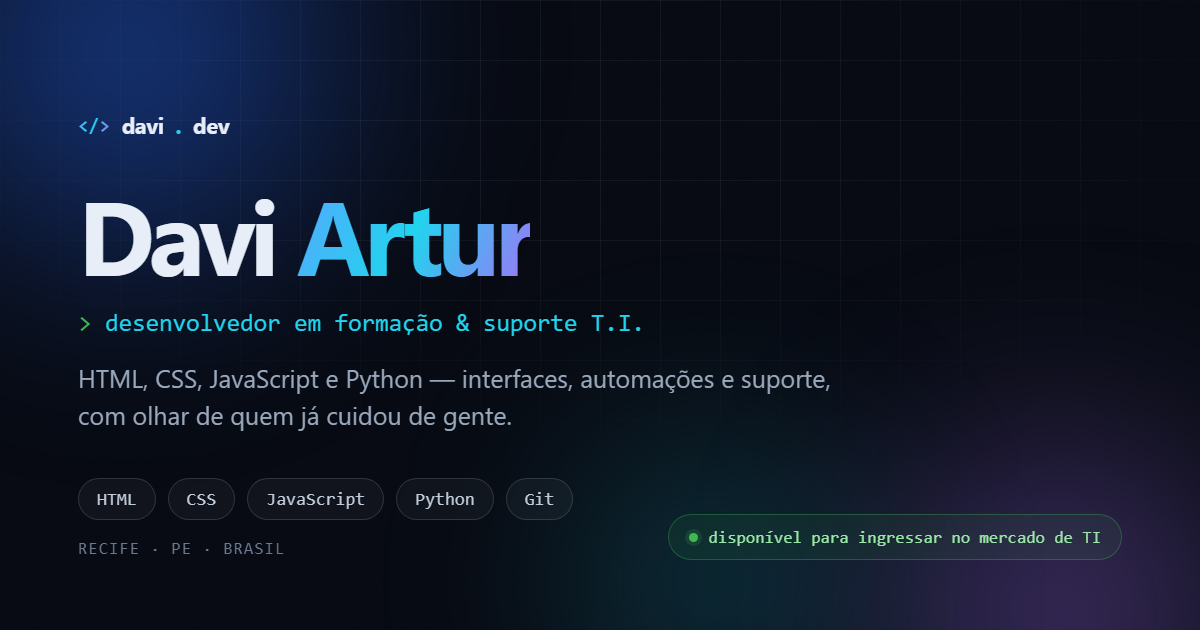
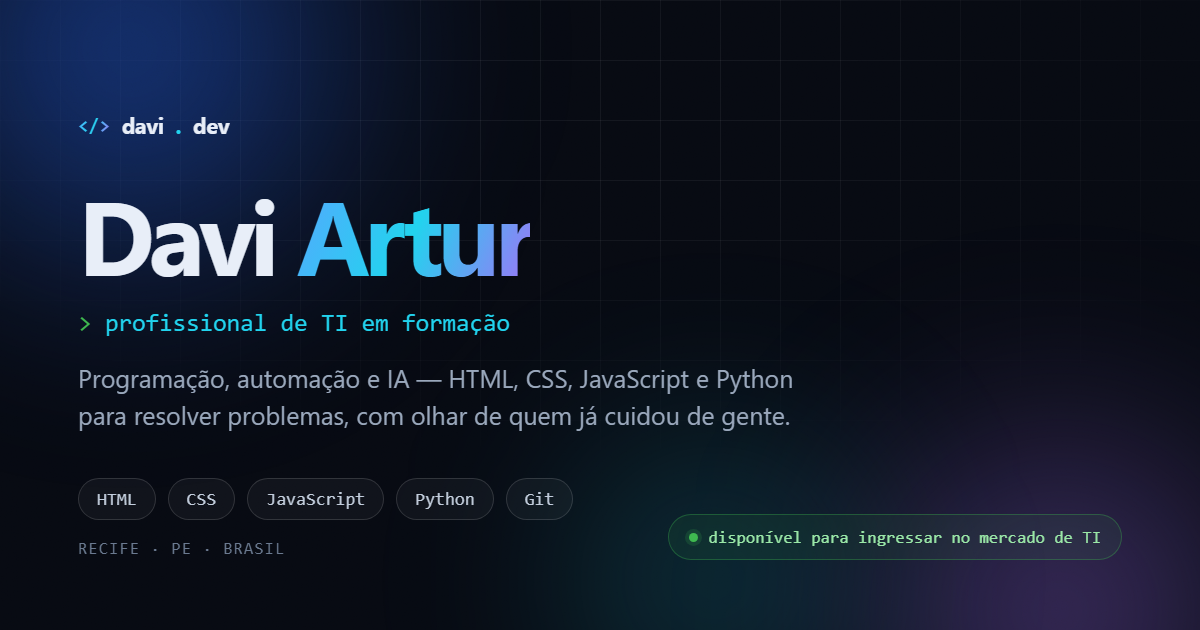
attt

Changed region(s): [[0.0617, 0.573, 0.6783, 0.6937], [0.0925, 0.4825, 0.5242, 0.5429]]

diff --git a/js/data.js b/js/data.js
@@ -14,8 +14,8 @@ window.PORTFOLIO = (function () {
     name: "Davi Artur Silva Sousa",
     shortName: "Davi Artur",
     initials: "DA",
-    role: "Desenvolvedor em formação & Suporte T.I.",
-    tagline: "Transformo curiosidade em código — do front-end ao suporte.",
+    role: "Profissional de TI em formação",
+    tagline: "Transformo curiosidade em soluções — da programação ao atendimento.",
     location: "Torre, Recife — PE",
     locationShort: "Recife · PE",
     email: "Daviarturss27@gmail.com",
@@ -31,7 +31,7 @@ window.PORTFOLIO = (function () {
         label: "Currículo — Suporte T.I.",
         short: "Suporte T.I.",
         file: "assets/cv/Curriculo_Davi_Suporte_TI.pdf",
-        desc: "Foco em suporte técnico, help desk e rotinas de TI."
+        desc: "Foco em suporte técnico e rotinas de TI."
       },
       {
         label: "Currículo — Administrativo",
@@ -45,9 +45,9 @@ window.PORTFOLIO = (function () {
       { id: "linkedin", label: "LinkedIn", url: "https://www.linkedin.com/in/daviartur/", handle: "in/daviartur" }
     ],
     bio: [
-      "Sou Davi Artur, estudante de Análise e Desenvolvimento de Sistemas no Recife e apaixonado por tecnologia. Venho construindo minha base em desenvolvimento web — HTML, CSS e JavaScript — além de Python, Git e ferramentas de inteligência artificial.",
+      "Sou Davi Artur, estudante de Análise e Desenvolvimento de Sistemas no Recife e apaixonado por tecnologia. Venho construindo minha base em programação — HTML, CSS, JavaScript e Python — além de Git, banco de dados e ferramentas de inteligência artificial.",
       "Minha trajetória passa pela área administrativa, onde aprendi a lidar com pessoas, sistemas, prazos e detalhes. Levo essas habilidades para o código: organização, comunicação clara e vontade de resolver o problema de verdade.",
-      "Hoje busco minha primeira oportunidade em TI, no desenvolvimento ou no suporte, para aprender em contexto real e entregar valor desde o primeiro dia."
+      "Hoje busco minha primeira oportunidade em TI para aprender em contexto real e entregar valor desde o primeiro dia, aberto a diferentes frentes da área."
     ],
     pitch:
       "Aprendo rápido, organizo bem e gosto de gente. Se você precisa de alguém que una base técnica, atendimento e vontade de crescer, é comigo."
@@ -66,8 +66,8 @@ window.PORTFOLIO = (function () {
   const highlights = [
     {
       icon: "</>",
-      title: "Front-end em evolução",
-      text: "Interfaces com HTML semântico, CSS moderno, animações e JavaScript puro — sem depender de framework."
+      title: "Programação em evolução",
+      text: "Soluções com HTML semântico, CSS moderno, JavaScript e Python — da interface à automação, sem depender de framework."
     },
     {
       icon: "✦",
@@ -76,7 +76,7 @@ window.PORTFOLIO = (function () {
     },
     {
       icon: "⌘",
-      title: "Suporte e organização",
+      title: "Rotina e organização",
       text: "Vivência com sistemas internos, planilhas, documentação e atendimento ao público."
     },
     {
@@ -309,12 +309,12 @@ window.PORTFOLIO = (function () {
       patterns: [/experiencia|ja trabalhou|trabalho|emprego|curriculo profissional|atuou/i],
       keywords: ["experiencia", "trabalhou", "trabalho", "emprego", "atuou", "consultor", "vendas"],
       reply:
-        "A experiência profissional dele é como **Consultor de Vendas · Administrativo**, entre **out/2025 e mai/2026**. No dia a dia: organização de documentos físicos e digitais, atualização de registros em sistemas e planilhas, suporte à comunicação interna e atendimento ao público.\n\nÉ uma experiência que rendeu **organização, comunicação e familiaridade com sistemas** — coisas que contam muito em suporte T.I.",
+        "A experiência profissional dele é como **Consultor de Vendas · Administrativo**, entre **out/2025 e mai/2026**. No dia a dia: organização de documentos físicos e digitais, atualização de registros em sistemas e planilhas, suporte à comunicação interna e atendimento ao público.\n\nÉ uma experiência que rendeu **organização, comunicação e familiaridade com sistemas** — coisas que contam em qualquer vaga de TI.",
       suggestions: ["Ele já mexeu com suporte?", "Quais são as soft skills?", "Ele está disponível?"]
     },
     {
       id: "skills",
-      patterns: [/o que (ele )?sabe|habilidades|stack|tecnologias|conhecimentos|linguagens|ferramentas/i],
+      patterns: [/o que (ele |voce |vc )?sabe|sabe fazer|habilidades|stack|tecnologias|conhecimentos|linguagens|ferramentas/i],
       keywords: ["habilidades", "stack", "tecnologias", "conhecimentos", "linguagens", "ferramentas", "o que sabe", "sabe fazer"],
       reply:
         "A stack dele hoje:\n\n**Front-end:** HTML, CSS e JavaScript\n**Back-end:** Python (e estudos em Node.js e banco de dados)\n**Ferramentas:** Git, GitHub, VS Code, Excel/Office\n**Extras:** IA generativa, automação e suporte a sistemas\n\nEle tem prática de projeto próprio — o **HwMon**, em C#/.NET — e este portfólio, feito em HTML/CSS/JS puro.",
@@ -430,10 +430,10 @@ window.PORTFOLIO = (function () {
     },
     {
       id: "availability",
-      patterns: [/disponivel|disponibilidade|oportunidade|vaga|estagio|junior|contrat|trabalhar/i],
+      patterns: [/voces contratam|contratacao|contratando|contratado|disponivel|disponibilidade|oportunidade|vaga|estagio|junior|trabalhar/i],
       keywords: ["disponivel", "disponibilidade", "oportunidade", "vaga", "estagio", "junior", "contratar", "trabalhar"],
       reply:
-        "**Sim, ele está disponível!** 🚀 Busca a primeira oportunidade no mercado de TI, em **desenvolvimento** ou **suporte/help desk**.\n\nO melhor caminho é chamar no e-mail **Daviarturss27@gmail.com** ou no LinkedIn.",
+        "**Sim, ele está disponível!** 🚀 Busca a primeira oportunidade no mercado de TI, aberto a diferentes frentes da área.\n\nO melhor caminho é chamar no e-mail **Daviarturss27@gmail.com** ou no LinkedIn.",
       suggestions: ["Por que contratar o Davi?", "Como entrar em contato?", "Baixar o currículo"]
     },
     {
@@ -462,10 +462,10 @@ window.PORTFOLIO = (function () {
     },
     {
       id: "why-hire",
-      patterns: [/por que.*(contratar|escolher|devo)/i, /porque.*contratar/i, /o que (ele )?agrega/i, /diferencial/i],
-      keywords: ["por que contratar", "porque contratar", "escolher", "agrega", "diferencial"],
+      patterns: [/por que.*(contratar|escolher|devo)/i, /porque.*contratar/i, /por que (te )?contratar/i, /o que (ele )?agrega/i, /diferencial/i],
+      keywords: ["por que contratar", "porque contratar", "devo contratar", "escolher", "agrega", "diferencial"],
       reply:
-        "Três motivos bem práticos:\n\n**1. Base técnica + vontade real de aprender** — HTML, CSS, JS, Python, Git e projetos próprios como o HwMon.\n**2. Gente que sabe lidar com gente** — atendimento, comunicação e organização vindos da rotina administrativa.\n**3. Entrega com contexto** — ele entende o problema antes de escrever a solução.\n\nPara uma vaga de entrada, é um pacote difícil de achar.",
+        "Três motivos bem práticos:\n\n**1. Base técnica + vontade real de aprender** — HTML, CSS, JS, Python, Git e projetos próprios como o HwMon.\n**2. Gente que sabe lidar com gente** — atendimento, comunicação e organização vindos da rotina administrativa.\n**3. Entrega com contexto** — ele entende o problema antes de escrever a solução.\n\nÉ um pacote que funciona em diferentes frentes da área de TI.",
       suggestions: ["Ele está disponível?", "Ver os projetos", "Como entrar em contato?"]
     },
     {
@@ -473,7 +473,7 @@ window.PORTFOLIO = (function () {
       patterns: [/objetivo|futuro|carreira|onde quer chegar|plano/i],
       keywords: ["objetivo", "futuro", "carreira", "plano", "quer chegar"],
       reply:
-        "O objetivo é entrar na área de TI e crescer como **desenvolvedor**, unindo front-end, automação e um bom atendimento. No curto prazo: **ingressar no mercado de TI**, aprender em contexto real e transformar estudo em entrega.",
+        "O objetivo é entrar na área de TI e crescer como **profissional de tecnologia**, unindo programação, automação e um bom atendimento. No curto prazo: **ingressar no mercado de TI**, aprender em contexto real e transformar estudo em entrega.",
       suggestions: ["Ele está disponível?", "O que ele está estudando?", "Ver os projetos"]
     },
     {
@@ -489,8 +489,8 @@ window.PORTFOLIO = (function () {
       patterns: [/suporte|help desk|ti|tecnico|manutencao|problema/i],
       keywords: ["suporte", "help desk", "tecnico", "manutencao", "problema", "ti"],
       reply:
-        "Ele tem interesse e base para **Suporte Técnico / Help Desk**: identificação e resolução de problemas, apoio a sistemas e processos, atualização de sistemas internos, planilhas e documentação.\n\nA experiência administrativa ajudou muito no lado de **atendimento e comunicação** — essencial para suporte.",
-      suggestions: ["Ele está disponível?", "Quais são as soft skills?", "Baixar o currículo de suporte"]
+        "Ele tem base para **suporte técnico e resolução de problemas**: identificar falhas, apoiar sistemas e processos, atualizar registros internos, mexer com planilhas e documentação — uma das várias frentes em que pode contribuir.\n\nA experiência administrativa rendeu **atendimento e comunicação**, úteis em qualquer área.",
+      suggestions: ["Ele está disponível?", "Quais são as soft skills?", "Quais são as habilidades?"]
     },
     {
       id: "tools",
@@ -564,7 +564,7 @@ window.PORTFOLIO = (function () {
       "- Projetos: HwMon (monitor de sensores Windows em C#/.NET 10, WPF + CLI, 307 sensores, alertas, CSV); este portfólio (HTML/CSS/JS puro, Canvas, chatbot); laboratório React + Node.",
       "- Soft skills: proatividade, comunicação, organização, trabalho em equipe, aprendizado rápido, resolução de problemas.",
       "- Idiomas: português nativo; inglês intermediário.",
-      "- Disponibilidade: em busca da primeira oportunidade no mercado de TI (desenvolvimento ou suporte/help desk), presencial no Recife ou remoto.",
+      "- Disponibilidade: em busca da primeira oportunidade no mercado de TI, aberto a diferentes frentes; presencial no Recife ou remoto.",
       "- Contato: Daviarturss27@gmail.com | (81) 99219-2077 | linkedin.com/in/daviartur | github.com/daviarturss.",
       "- Currículos: assets/cv/Curriculo_Davi_Suporte_TI.pdf e assets/cv/Curriculo_Davi_Administrativo.pdf.",
       "- Idade e pretensão salarial não constam no currículo.",

diff --git a/index.html b/index.html
@@ -3,23 +3,23 @@
 <head>
   <meta charset="UTF-8" />
   <meta name="viewport" content="width=device-width, initial-scale=1.0" />
-  <title>Davi Artur — Desenvolvedor em formação &amp; Suporte T.I.</title>
-  <meta name="description" content="Portfólio de Davi Artur Silva Sousa — estudante de ADS no Recife, desenvolvedor em formação com HTML, CSS, JavaScript e Python. Projetos, trajetória e um assistente que responde sobre mim." />
+  <title>Davi Artur — Portfólio | TI em formação</title>
+  <meta name="description" content="Portfólio de Davi Artur Silva Sousa — estudante de ADS no Recife com base em HTML, CSS, JavaScript e Python, automação e IA. Projetos, trajetória e um assistente que responde sobre mim." />
   <meta name="author" content="Davi Artur Silva Sousa" />
   <meta name="theme-color" content="#070a12" />
 
   <meta property="og:type" content="website" />
   <meta property="og:locale" content="pt_BR" />
   <meta property="og:site_name" content="Davi Artur — Portfólio" />
-  <meta property="og:title" content="Davi Artur — Desenvolvedor em formação & Suporte T.I." />
-  <meta property="og:description" content="Interfaces, automações e suporte. Conheça os projetos e a trajetória de Davi Artur." />
+  <meta property="og:title" content="Davi Artur — Portfólio | TI em formação" />
+  <meta property="og:description" content="Programação, automação e IA. Conheça os projetos e a trajetória de Davi Artur." />
   <meta property="og:image" content="assets/img/og.png" />
   <meta property="og:image:width" content="1200" />
   <meta property="og:image:height" content="630" />
   <meta property="og:image:alt" content="Cartão com o nome Davi Artur, cargo e tecnologias HTML, CSS, JavaScript, Python e Git" />
   <meta name="twitter:card" content="summary_large_image" />
-  <meta name="twitter:title" content="Davi Artur — Desenvolvedor em formação & Suporte T.I." />
-  <meta name="twitter:description" content="Interfaces, automações e suporte. Projetos, trajetória e um assistente que responde sobre mim." />
+  <meta name="twitter:title" content="Davi Artur — Portfólio | TI em formação" />
+  <meta name="twitter:description" content="Programação, automação e IA. Projetos, trajetória e um assistente que responde sobre mim." />
   <meta name="twitter:image" content="assets/img/og.png" />
 
   <link rel="icon" href="favicon.svg" type="image/svg+xml" />
@@ -33,7 +33,7 @@
     "@context": "https://schema.org",
     "@type": "Person",
     "name": "Davi Artur Silva Sousa",
-    "jobTitle": "Desenvolvedor em formação",
+    "jobTitle": "Profissional de TI em formação",
     "email": "mailto:Daviarturss27@gmail.com",
     "telephone": "+55-81-99219-2077",
     "address": { "@type": "PostalAddress", "addressLocality": "Recife", "addressRegion": "PE", "addressCountry": "BR" },
@@ -146,12 +146,12 @@
           <p class="hero-role mono" data-reveal style="--d:.12s">
             <span class="prompt" aria-hidden="true">&gt;</span>
             <span id="typed-role" aria-hidden="true"></span><span class="typed-caret" aria-hidden="true"></span>
-            <span class="sr-only">Desenvolvedor em formação e suporte técnico</span>
+            <span class="sr-only">Profissional de TI em formação</span>
           </p>
 
           <p class="hero-lead" data-reveal style="--d:.18s">
-            Estudante de ADS no Recife, construindo interfaces, automações e soluções que
-            organizam o dia a dia. Base técnica em crescimento, olhar de quem já cuidou de gente.
+            Estudante de ADS no Recife, construindo soluções com programação, automação e IA.
+            Base técnica em constante crescimento e olhar de quem já trabalhou com clientes.
           </p>
 
           <div class="hero-actions" data-reveal style="--d:.24s">
@@ -167,7 +167,7 @@
               </summary>
               <div class="resume-menu-list">
                 <a href="assets/cv/Curriculo_Davi_Suporte_TI.pdf" download>
-                  <span>Suporte T.I.<small>PDF · foco em help desk</small></span>
+                  <span>Suporte T.I.<small>PDF · suporte e rotinas de TI</small></span>
                   <svg class="icon" aria-hidden="true"><use href="#i-download"/></svg>
                 </a>
                 <a href="assets/cv/Curriculo_Davi_Administrativo.pdf" download>
@@ -194,7 +194,7 @@
           <dl class="hero-facts" data-reveal style="--d:.36s">
             <div><dt>Base</dt><dd>Recife · PE</dd></div>
             <div><dt>Formação</dt><dd>ADS · Estácio</dd></div>
-            <div><dt>Foco</dt><dd>Dev + Suporte</dd></div>
+            <div><dt>Foco</dt><dd>Tecnologia &amp; IA</dd></div>
           </dl>
         </div>
 
@@ -255,7 +255,7 @@
               </div>
               <div>
                 <h3>Davi Artur</h3>
-                <p class="profile-role">Dev em formação · Suporte T.I.</p>
+                <p class="profile-role">TI em formação · ADS</p>
               </div>
             </div>
 
@@ -298,12 +298,12 @@
 
           <div class="about-main">
             <div class="about-text" data-reveal>
-              <p>Sou Davi Artur, estudante de Análise e Desenvolvimento de Sistemas no Recife e apaixonado por tecnologia. Venho construindo minha base em desenvolvimento web — HTML, CSS e JavaScript — além de Python, Git e ferramentas de inteligência artificial.</p>
+              <p>Sou Davi Artur, estudante de Análise e Desenvolvimento de Sistemas no Recife e apaixonado por tecnologia. Venho construindo minha base em programação — HTML, CSS, JavaScript e Python — além de Git, banco de dados e ferramentas de inteligência artificial.</p>
               <p>Minha trajetória passa pela área administrativa, onde aprendi a lidar com pessoas, sistemas, prazos e detalhes. Levo essas habilidades para o código: <strong>organização, comunicação clara e vontade de resolver o problema de verdade</strong>.</p>
-              <p>Hoje busco minha primeira oportunidade em TI, no desenvolvimento ou no suporte, para aprender em contexto real e entregar valor desde o primeiro dia.</p>
+              <p>Hoje busco minha primeira oportunidade em TI para aprender em contexto real e entregar valor desde o primeiro dia, aberto a oportunidades.</p>
               <blockquote class="pitch">
                 <span aria-hidden="true">“</span>
-                Aprendo rápido, organizo bem e gosto de gente. Se você precisa de alguém que una base técnica, atendimento e vontade de crescer, é comigo.
+                Aprendo rápido, organizo bem e gosto de pessoas. Se você precisa de alguém que una base técnica, atendimento e vontade de crescer, é comigo.
               </blockquote>
             </div>
 
@@ -395,8 +395,8 @@
               <span class="eyebrow"><i>05</i> Contato</span>
               <h2>Vamos construir <span class="grad">algo juntos?</span></h2>
               <p class="contact-lead">
-                Estou em busca da minha primeira oportunidade no mercado de TI, em desenvolvimento
-                ou suporte. Se fizer sentido, me chama: respondo rápido e com vontade.
+                Estou em busca da minha primeira oportunidade no mercado de TI, aberto a diferentes
+                frentes da área. Se fizer sentido, me chama: respondo rápido e com vontade.
               </p>
 
               <ul class="contact-list">

diff --git a/js/main.js b/js/main.js
@@ -484,7 +484,7 @@
       `<span class="tok-com">// quem está por trás do código</span>`,
       `<span class="tok-key">const</span> <span class="tok-prop">davi</span> <span class="tok-punc">=</span> <span class="tok-punc">{</span>`,
       `  <span class="tok-prop">nome</span><span class="tok-punc">:</span> <span class="tok-str">"Davi Artur Silva Sousa"</span><span class="tok-punc">,</span>`,
-      `  <span class="tok-prop">cargo</span><span class="tok-punc">:</span> <span class="tok-str">"Desenvolvedor em formação"</span><span class="tok-punc">,</span>`,
+      `  <span class="tok-prop">cargo</span><span class="tok-punc">:</span> <span class="tok-str">"TI em formação"</span><span class="tok-punc">,</span>`,
       `  <span class="tok-prop">base</span><span class="tok-punc">:</span> <span class="tok-str">"Recife · PE"</span><span class="tok-punc">,</span>`,
       `  <span class="tok-prop">formacao</span><span class="tok-punc">:</span> <span class="tok-str">"ADS · Estácio"</span><span class="tok-punc">,</span>`,
       `  <span class="tok-prop">stack</span><span class="tok-punc">:</span> <span class="tok-punc">[</span><span class="tok-str">"HTML"</span><span class="tok-punc">,</span> <span class="tok-str">"CSS"</span><span class="tok-punc">,</span> <span class="tok-str">"JS"</span><span class="tok-punc">,</span> <span class="tok-str">"Python"</span><span class="tok-punc">],</span>`,
@@ -499,7 +499,8 @@
       `  <span class="tok-prop">"frontend"</span><span class="tok-punc">:</span> <span class="tok-punc">[</span><span class="tok-str">"HTML5"</span><span class="tok-punc">,</span> <span class="tok-str">"CSS3"</span><span class="tok-punc">,</span> <span class="tok-str">"JavaScript"</span><span class="tok-punc">],</span>`,
       `  <span class="tok-prop">"backend"</span><span class="tok-punc">:</span> <span class="tok-punc">[</span><span class="tok-str">"Python"</span><span class="tok-punc">,</span> <span class="tok-str">"Node.js (estudos)"</span><span class="tok-punc">],</span>`,
       `  <span class="tok-prop">"tools"</span><span class="tok-punc">:</span> <span class="tok-punc">[</span><span class="tok-str">"Git"</span><span class="tok-punc">,</span> <span class="tok-str">"GitHub"</span><span class="tok-punc">,</span> <span class="tok-str">"VS Code"</span><span class="tok-punc">,</span> <span class="tok-str">"Excel"</span><span class="tok-punc">],</span>`,
-      `  <span class="tok-prop">"extras"</span><span class="tok-punc">:</span> <span class="tok-punc">[</span><span class="tok-str">"IA generativa"</span><span class="tok-punc">,</span> <span class="tok-str">"Automação"</span><span class="tok-punc">,</span> <span class="tok-str">"Suporte T.I."</span><span class="tok-punc">],</span>`,
+      `  <span class="tok-prop">"extras"</span><span class="tok-punc">:</span> <span class="tok-punc">[</span><span class="tok-str">"IA generativa"</span><span class="tok-punc">,</span> <span class="tok-str">"Automação"</span><span class="tok-punc">,</span>`,
+      `             <span class="tok-str">"Resolução de problemas"</span><span class="tok-punc">],</span>`,
       `  <span class="tok-prop">"idiomas"</span><span class="tok-punc">:</span> <span class="tok-punc">{</span>`,
       `    <span class="tok-prop">"portugues"</span><span class="tok-punc">:</span> <span class="tok-str">"nativo"</span><span class="tok-punc">,</span>`,
       `    <span class="tok-prop">"ingles"</span><span class="tok-punc">:</span> <span class="tok-str">"intermediário"</span>`,
@@ -511,9 +512,9 @@
     goal: [
       `<span class="tok-key"># objetivo</span>`,
       ``,
-      `Entrar na área de TI para crescer como`,
-      `desenvolvedor — unindo front-end, automação`,
-      `e um bom atendimento.`,
+      `Entrar na área de TI e crescer profissionalmente,`,
+      `unindo programação, automação, IA e um`,
+      `bom atendimento.`,
       ``,
       `<span class="tok-tag">- [x]</span> Base em HTML, CSS e JS`,
       `<span class="tok-tag">- [x]</span> Projetos próprios no GitHub`,
@@ -553,10 +554,10 @@
     const el = $("#typed-role");
     if (!el) return;
     const roles = [
-      "Desenvolvedor web em formação",
-      "Front-end com HTML, CSS e JS",
+      "Profissional de TI em formação",
+      "Programação com HTML, CSS e JS",
       "Python & automação",
-      "Suporte técnico e Help Desk",
+      "Tecnologia e resolução de problemas",
       "IA aplicada ao dia a dia"
     ];
     if (reduced) { el.textContent = roles[0]; return; }

diff --git a/README.md b/README.md
@@ -4,7 +4,7 @@ Meu portfólio pessoal: uma landing page feita do zero com **HTML, CSS e JavaScr
 
 Eu construí este site como parte da minha transição para a área de TI. Ele é, ao mesmo tempo, minha vitrine profissional e meu laboratório de estudo: cada seção foi uma oportunidade de praticar layout responsivo, acessibilidade, manipulação de DOM, Canvas e integração com uma API de IA.
 
-> **Status:** disponível para ingressar no mercado de TI, em desenvolvimento ou suporte/help desk.
+> **Status:** disponível para ingressar no mercado de TI, aberto a diferentes frentes da área.
 
 ---
 
@@ -265,7 +265,7 @@ Antes de publicar, troque a imagem Open Graph por uma versão definitiva e confi
 
 Mantenho duas versões, com focos diferentes:
 
-- **Suporte T.I.** — help desk, resolução de problemas, rotinas de TI.
+- **Suporte T.I.** — suporte técnico, resolução de problemas e rotinas de TI.
 - **Administrativo** — atendimento, organização, planilhas e sistemas internos.
 
 Os textos do site combinam os dois: contato e objetivo vêm da versão de suporte; a experiência vem da versão administrativa. Dois pontos que ajustei de propósito:
